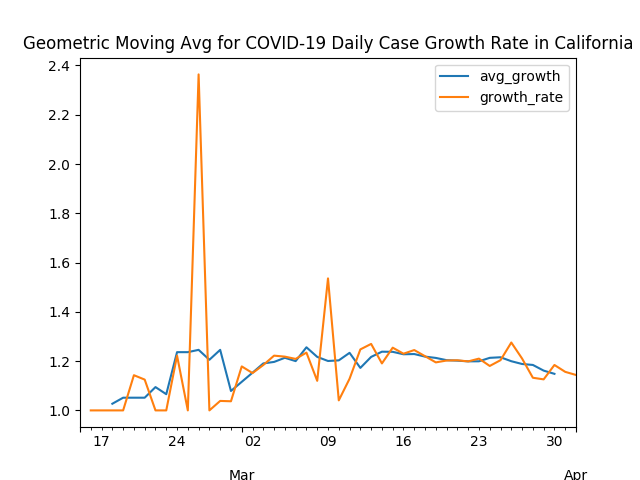
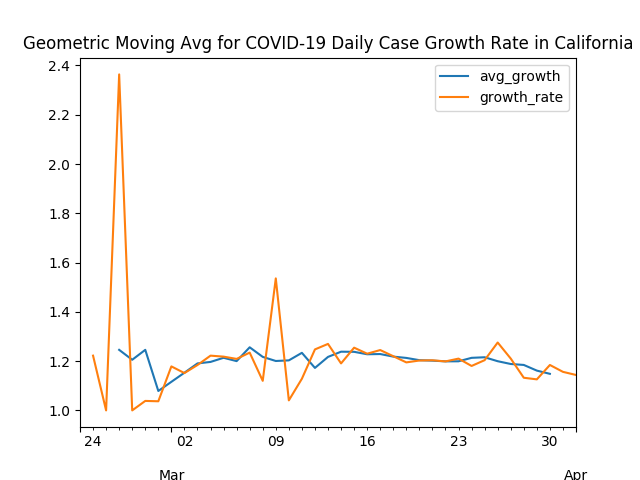
improve plots

diff --git a/running_geometric_mean.py b/running_geometric_mean.py
@@ -35,9 +35,7 @@ if __name__ == '__main__':
     plot_gmean_rates(usa_cases, title_beginning + 'USA',
                      filename='./Plots/USA.png')
 
-    df = df[df['date'] >= '2020-02-15']
-
-    df = df[df['date'] >= '2020-02-15']
+    df = df[df['date'] >= '2020-02-23']
     for state in df['state'].unique():
         title = title_beginning + state
         plot_gmean_rates(df[df['state']==state], title,
